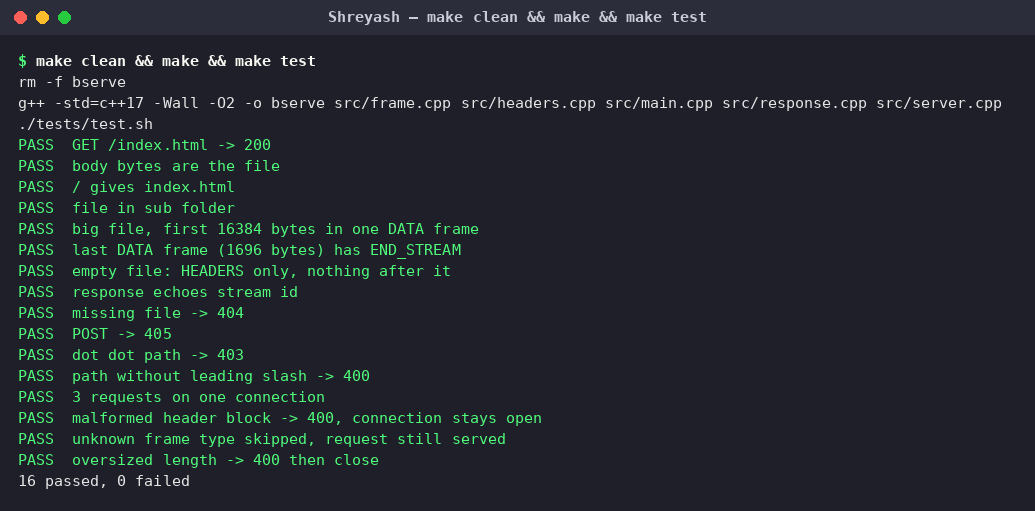
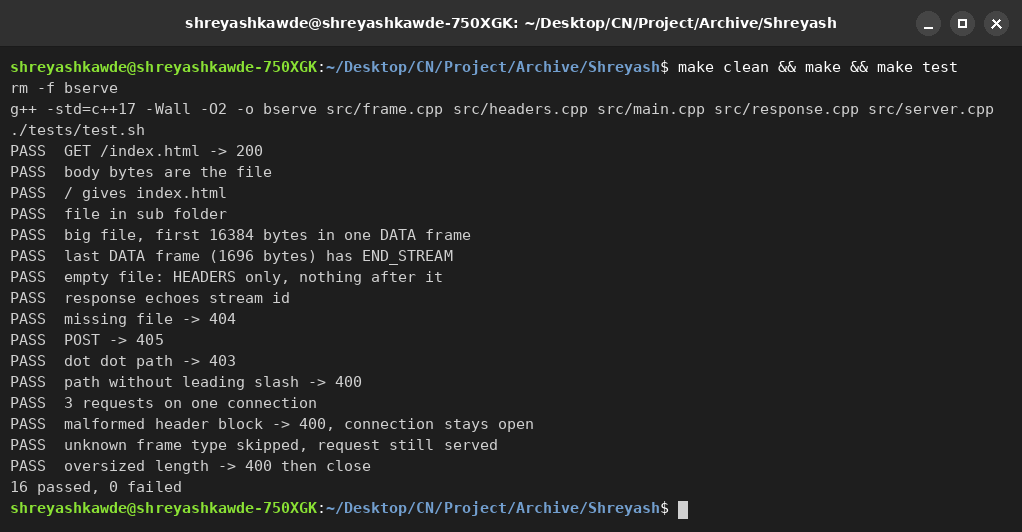
Retake screenshots with the terminal prompt

diff --git a/README.md b/README.md
@@ -68,12 +68,12 @@ this server, and the bytes in `HEXDUMP.md` are exactly what `bcurl -v` printed.
 
 ![build and tests, 16 passed](screenshots/1-build-test.png)
 
-The server log while the client fetched `/index.html /about.html /sub/page.txt` on one connection and then
-`/missing.html`:
+The server log while the client fetched `/index.html /about.html /sub/page.txt` on one connection, then
+`/missing.html`, and then the two broken frames below arrived:
 
 ![server log](screenshots/2-running.png)
 
-The two broken frames from above and what the server logged:
+The two broken frames from above, sent with `nc`, and the 400 answers:
 
 ![broken frames sent with nc](screenshots/3-broken-frame.png)
 
